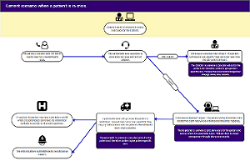
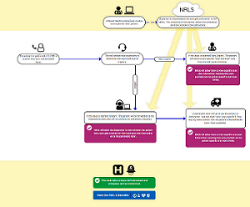
*update scenario context *update benefits button label *update care co-ordinator detail *update contacts modal

diff --git a/Demonstrator/Demonstrator.WebApp/AppSrc/core/helpers/modals/scenario-modal.html b/Demonstrator/Demonstrator.WebApp/AppSrc/core/helpers/modals/scenario-modal.html
@@ -7,7 +7,7 @@
             <br />You can control the animation using the bottom controls.
             <span class="scenario-img-wrapper">
                 <a href="javascript:void(0);" click.delegate="loadScenarioModal()"><img if.bind="cmodule" src="/images/scenario-context/${cmodule}_thumb.png" alt.bind="title" class="img-responsive" /></a>
-                <button class="btn btn-info btn-block" click.delegate="loadScenarioModal()">Explore the Scenario</button>
+                <button class="btn btn-info btn-block" click.delegate="loadScenarioModal()">Explore the Scenario <i class="fa fa-expand"></i></button>
             </span>
         </p>
     </div>
@@ -17,13 +17,21 @@
         <div class="modal-dialog" role="document">
             <div class="modal-content">
                 <div class="modal-body">
-                    <span class="switch-button n-text-white ${switchAnimation ? 'active' : 'inactive'}" click.delegate="toggleAnimation()">
-                        <span class="switch on">Pause <i class="fa fa-pause"></i></span><span class="switch off">Play <i class="fa fa-play"></i></span>
-                    </span>
                     <button type="button" class="close b-close-btn" data-dismiss="modal" aria-label="Close"><i class="fa fa-times b-close-icon"></i></button>
-                    <div if.bind="cmodule" class="context-switch-wrap ${switchContext ? 'active' : 'inactive'}">
-                        <img src="/images/scenario-context/${cmodule}-1.png" alt.bind="title" class="img-responsive context off" />
-                        <img src="/images/scenario-context/${cmodule}-2.png" alt.bind="title" class="img-responsive context on" />
+
+                    <ul class="nav nav-tabs nav-justified nrls-context-tabs">
+                        <li class="active"><a data-toggle="tab" href="#current-context">Current scenario when a patient is in crisis</a></li>
+                        <li><a data-toggle="tab" href="#nrls-context">NRLS scenario when a patient is in crisis</a></li>
+                    </ul>
+
+                    <div if.bind="cmodule" class="tab-content">
+                        <div id="current-context" class="tab-pane fade in active">
+                            <img src="/images/scenario-context/${cmodule}-1.png" alt.bind="title" class="img-responsive" />
+                        </div>
+                        <div id="nrls-context" class="tab-pane fade">
+                            <img src="/images/scenario-context/${cmodule}-2.png" alt.bind="title" class="img-responsive" />
+                            <a href="javascript:void(0);" click.delegate="setBenefitsNav()" class="benefits-button"></a>
+                        </div>
                     </div>
                 </div>
             </div>

diff --git a/Demonstrator/Demonstrator.WebApp/AppSrc/core/helpers/modals/scenario-modal.ts b/Demonstrator/Demonstrator.WebApp/AppSrc/core/helpers/modals/scenario-modal.ts
@@ -1,6 +1,10 @@
-import { bindable, bindingMode } from 'aurelia-framework';
+import { bindable, bindingMode, inject } from 'aurelia-framework';
+import { Router } from 'aurelia-router';
 
+@inject(Router)
 export class ScenarioModalCustomElement {
+
+    constructor(private router: Router) { }
 
     @bindable({ defaultBindingMode: bindingMode.oneWay })
     cmodule: string;
@@ -8,52 +12,22 @@ export class ScenarioModalCustomElement {
     @bindable({ defaultBindingMode: bindingMode.oneWay })
     title: string;
 
-    switchContext: boolean = false;
-
-    switchTimer: any;
-
-    switchAnimation: boolean = true;
-
-    toggleContext() {
-        this.switchContext = !this.switchContext;
-    }
-
-    toggleAnimation() {
-        this.switchAnimation = !this.switchAnimation;
-
-        if (!this.switchAnimation) {
-            this.stopContext();
-        }
-        else {
-            this.animateContext();
-        }
-    }
-
-    animateContext() {
-        this.switchTimer = window.setInterval(() => this.toggleContext(), 2500);
-    }
-
-    initContext() {
-        let ani = window.setTimeout(() => {
-            this.toggleContext();
-            this.animateContext();
-        }, 1000);
-    }
-
-    stopContext() {
-        window.clearInterval(this.switchTimer);
-    }
+    navigateToBenefits: boolean = false;
 
     loadScenarioModal() {
 
         $('.nrls-scenario-modal').modal('show');
 
-        $('.nrls-scenario-modal').on('shown.bs.modal', () => {
-            this.initContext();
+        $('.nrls-scenario-modal').on('hidden.bs.modal', () => {
+            if (this.navigateToBenefits) {
+                this.router.navigateToRoute('about-benefits');
+                this.navigateToBenefits = false;
+            }
         });
+    }
 
-        $('.nrls-scenario-modal').on('hide.bs.modal', () => {
-            this.stopContext();
-        })
+    setBenefitsNav() {
+        this.navigateToBenefits = true;
+        $('.nrls-scenario-modal').modal('hide');
     }
 }

diff --git a/Demonstrator/Demonstrator.WebApp/AppStyles/elements.scss b/Demonstrator/Demonstrator.WebApp/AppStyles/elements.scss
@@ -304,8 +304,17 @@ a {
                 border-top-width: 40px;
 
                 .modal-body {
-                    padding: 0;
+                    padding: 0 0 10px 0;
                     max-height: calc(100vh - 110px);
+                    background-color: $paleYellow;
+
+                    .benefits-button {
+                        position: absolute;
+                        top: 772px;
+                        left: 358px;
+                        width: 239px;
+                        height: 33px;
+                    }
 
                     .switch-button {
                         position: fixed;
@@ -384,6 +393,41 @@ a {
                                 }
                             }
                         }
+                    }
+                }
+            }
+        }
+    }
+
+    .nrls-context-tabs {
+        li {
+
+            a {
+                text-decoration: none;
+                background-color: $nhsPink75;
+                color: $white;
+                font-weight: bold;
+                border: none;
+                border-radius: 0;
+                box-shadow: 2px -2px 9px rgba(0,0,0,0.4) inset;
+
+                &:hover {
+                    background-color: $nhsPink;
+                }
+            }
+
+            &.active {
+
+                a {
+                    border: none;
+                    background-color: $nhsPink;
+                    box-shadow: none;
+
+                    &:hover,
+                    &:focus {
+                        border: none;
+                        background-color: $nhsPink;
+                        color: $white;
                     }
                 }
             }

diff --git a/Demonstrator/Demonstrator.WebApp/AppSrc/core/helpers/modals/contact-modal.html b/Demonstrator/Demonstrator.WebApp/AppSrc/core/helpers/modals/contact-modal.html
@@ -17,7 +17,7 @@
                         <li><a href="https://github.com/nhsconnect/nrls-reference-implementation/issues/new?labels=content" target="_blank"><b>content</b></a> - Read something you think is incorrect or have some new content that you would like to see, use this one</li>
                     </ul>
 
-                    <p><b>2. Email <i class="fa fa-envelope"></i><</b></p>
+                    <p><b>2. Email <i class="fa fa-envelope"></i></b></p>
                     <p>Don't have a GitHub account? Please consider what type of issue you might want to raise, then simply follow the relevant link to one of our designated email channels:</p>
                     <ul class="margin-bottom-lrg">
                         <li><a href="mailto:nrls@nhs.net?subject=NRLS%20Demonstrator%20Bug"><b>bug</b></a> - Found a technical issue with the Demonstrator, use this one</li>

diff --git a/Demonstrator/Demonstrator.WebApp/AppSrc/pages/actor-organisation/index.html b/Demonstrator/Demonstrator.WebApp/AppSrc/pages/actor-organisation/index.html
@@ -28,7 +28,7 @@
         <p if.bind="!organisation">You can read more about NRLS Benefits on the <a route-href="route: about;">About Page</a>.</p>
 
         <!-- The assumtion is that an organisation will always have benefits -->
-        <benefit-modal if.bind="organisation" benefitfor="ActorOrganisation" benefitforid.one-way="organisation.id" benefitforname.one-way="organisation.name"></benefit-modal>
+        <benefit-modal if.bind="organisation" benefitfor="ActorOrganisation" benefitforid.one-way="organisation.id" benefitforname.one-way="benefitsForName"></benefit-modal>
 
         <p class="margin-top-lrg"><a class="pull-right btn btn-default" route-href="route: welcome;"><i class="fa fa-chevron-left"></i> Back</a></p>
 

diff --git a/Demonstrator/Demonstrator.WebApp/AppSrc/pages/personnel/index.ts b/Demonstrator/Demonstrator.WebApp/AppSrc/pages/personnel/index.ts
@@ -68,13 +68,13 @@ export class Personnel {
 
                 this.benefitsFor = "Personnel";
                 this.benefitsForId = this.personnel.id;
-                this.benefitsForName = this.personnel.name;
+                this.benefitsForName = `a ${this.personnel.name}`;
             } else {
 
                 // The assumtion is that an organisation will always have benefits
                 this.benefitsFor = "ActorOrganisation";
                 this.benefitsForId = this.organisation.id;
-                this.benefitsForName = this.organisation.name;
+                this.benefitsForName = `the ${this.organisation.name}`;
             }
 
             this.hasBenefits = true;

diff --git a/Demonstrator/Demonstrator.WebApp/AppSrc/pages/actor-organisation/index.ts b/Demonstrator/Demonstrator.WebApp/AppSrc/pages/actor-organisation/index.ts
@@ -13,6 +13,7 @@ export class ActorOrganisationPersonnel {
     organisationLoading: boolean = false;
     personnelListLoading: boolean = false;
     breadcrumb: Array<IBreadcrumb> = [];
+    benefitsForName: string;
 
     constructor(private actorOrgSvc: ActorOrganisationSvc) {
         
@@ -26,6 +27,7 @@ export class ActorOrganisationPersonnel {
         this.organisationLoading = true;
         this.actorOrgSvc.getOne(this.actorOrgId).then(organisation => {
             this.organisation = organisation;
+            this.benefitsForName = `the ${this.organisation.name}`;
             this.heading = this.organisation.name;
             this.organisationLoading = false;
 

diff --git a/Demonstrator/Demonstrator.WebApp/AppSrc/core/helpers/modals/benefit-modal.html b/Demonstrator/Demonstrator.WebApp/AppSrc/core/helpers/modals/benefit-modal.html
@@ -1,7 +1,7 @@
 <template>
     <p class="benefits-button">
         <button class="btn btn-info" click.delegate="loadBenefitModal()">
-            <span class="txt">View the NRLS Benefits for ${benefitforname}</span>
+            <span class="txt">View NRLS Benefits for ${benefitforname}</span>
             <span class="sym"><i class="fa fa-clock-o benefits-btn-icon"></i><i class="fa fa-gbp benefits-btn-icon"></i><i class="fa fa-heartbeat benefits-btn-icon"></i><i class="fa fa-shield benefits-btn-icon"></i></span>
         </button>
     </p>

diff --git a/Demonstrator/Demonstrator.WebApp/AppStyles/colors.scss b/Demonstrator/Demonstrator.WebApp/AppStyles/colors.scss
@@ -34,6 +34,7 @@ $nhsGreen105: darken($nhsGreen, 5%);
 $nhsGreen80: lighten($nhsGreen, 20%);
 $nhsWarmYellow130: darken($nhsWarmYellow, 30%);
 $nhsWarmYellow75: lighten($nhsWarmYellow, 25%);
+$nhsPink75: lighten($nhsPink, 25%);
 
 $black: $nhsBlack; 
 $white: #FFFFFF;
@@ -41,3 +42,4 @@ $blue: $nhsBlue;
 $grey: $nhsMidGrey;
 $green: $nhsLightGreen;
 $red: $nhsEmergencyRed;
+$paleYellow: #FEF7BB;
